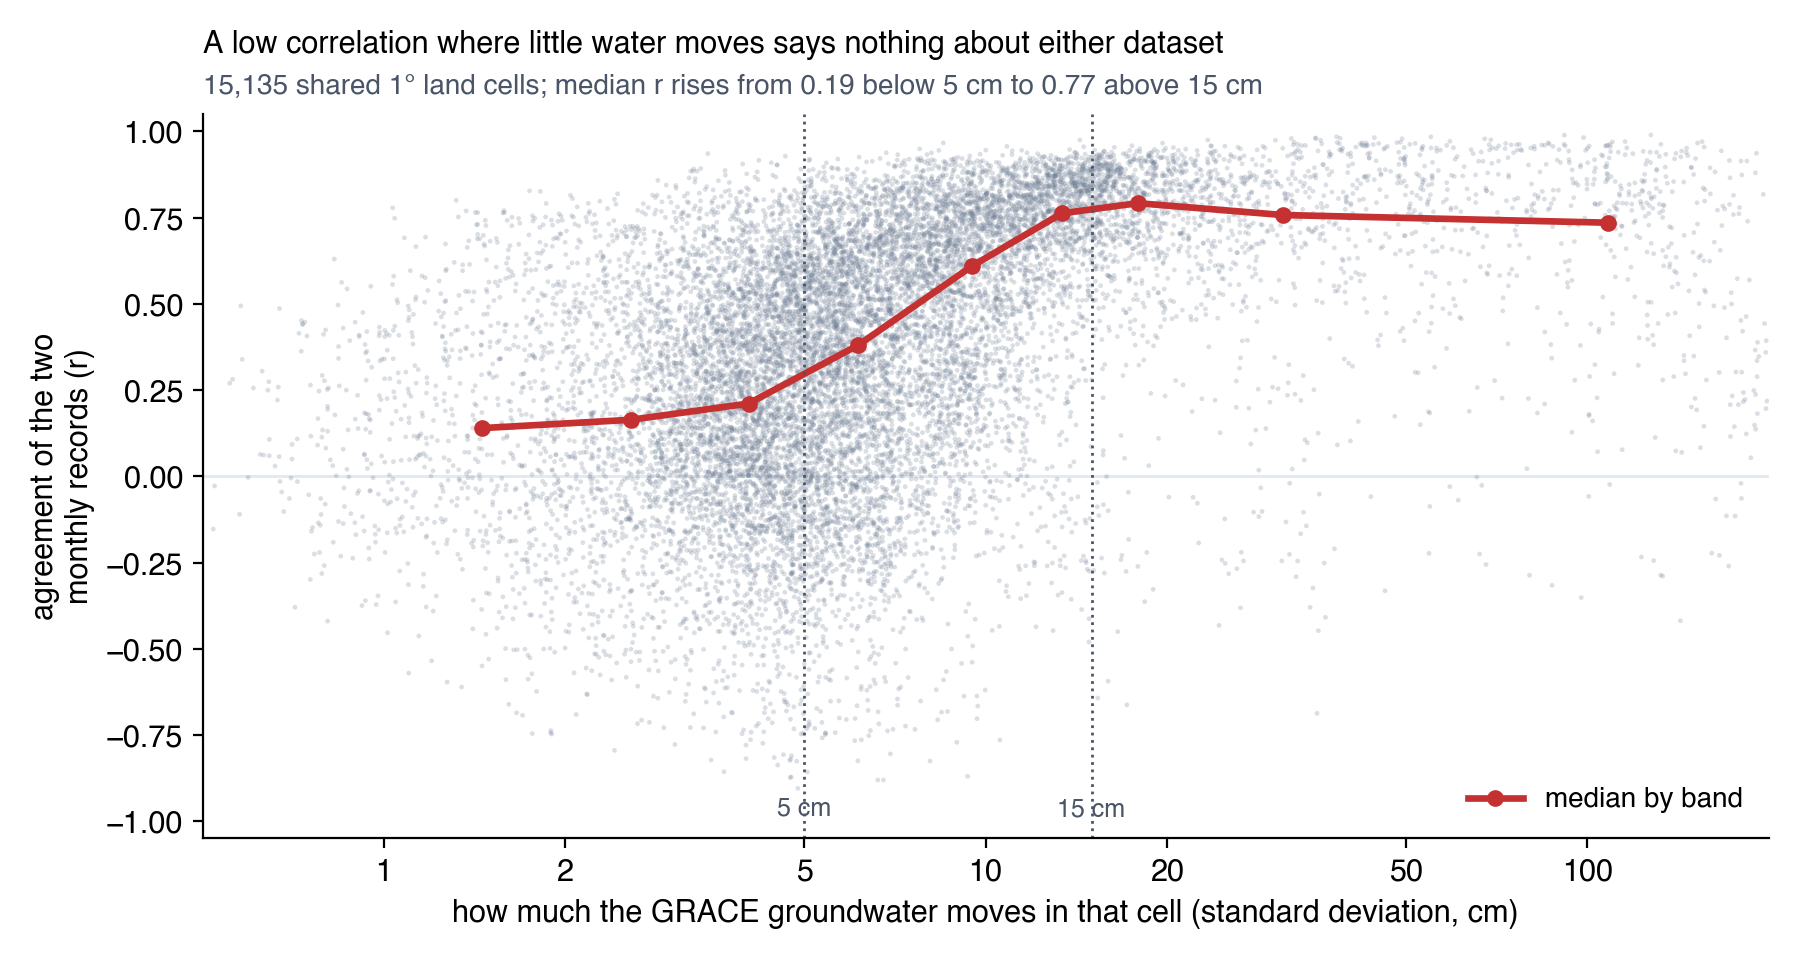
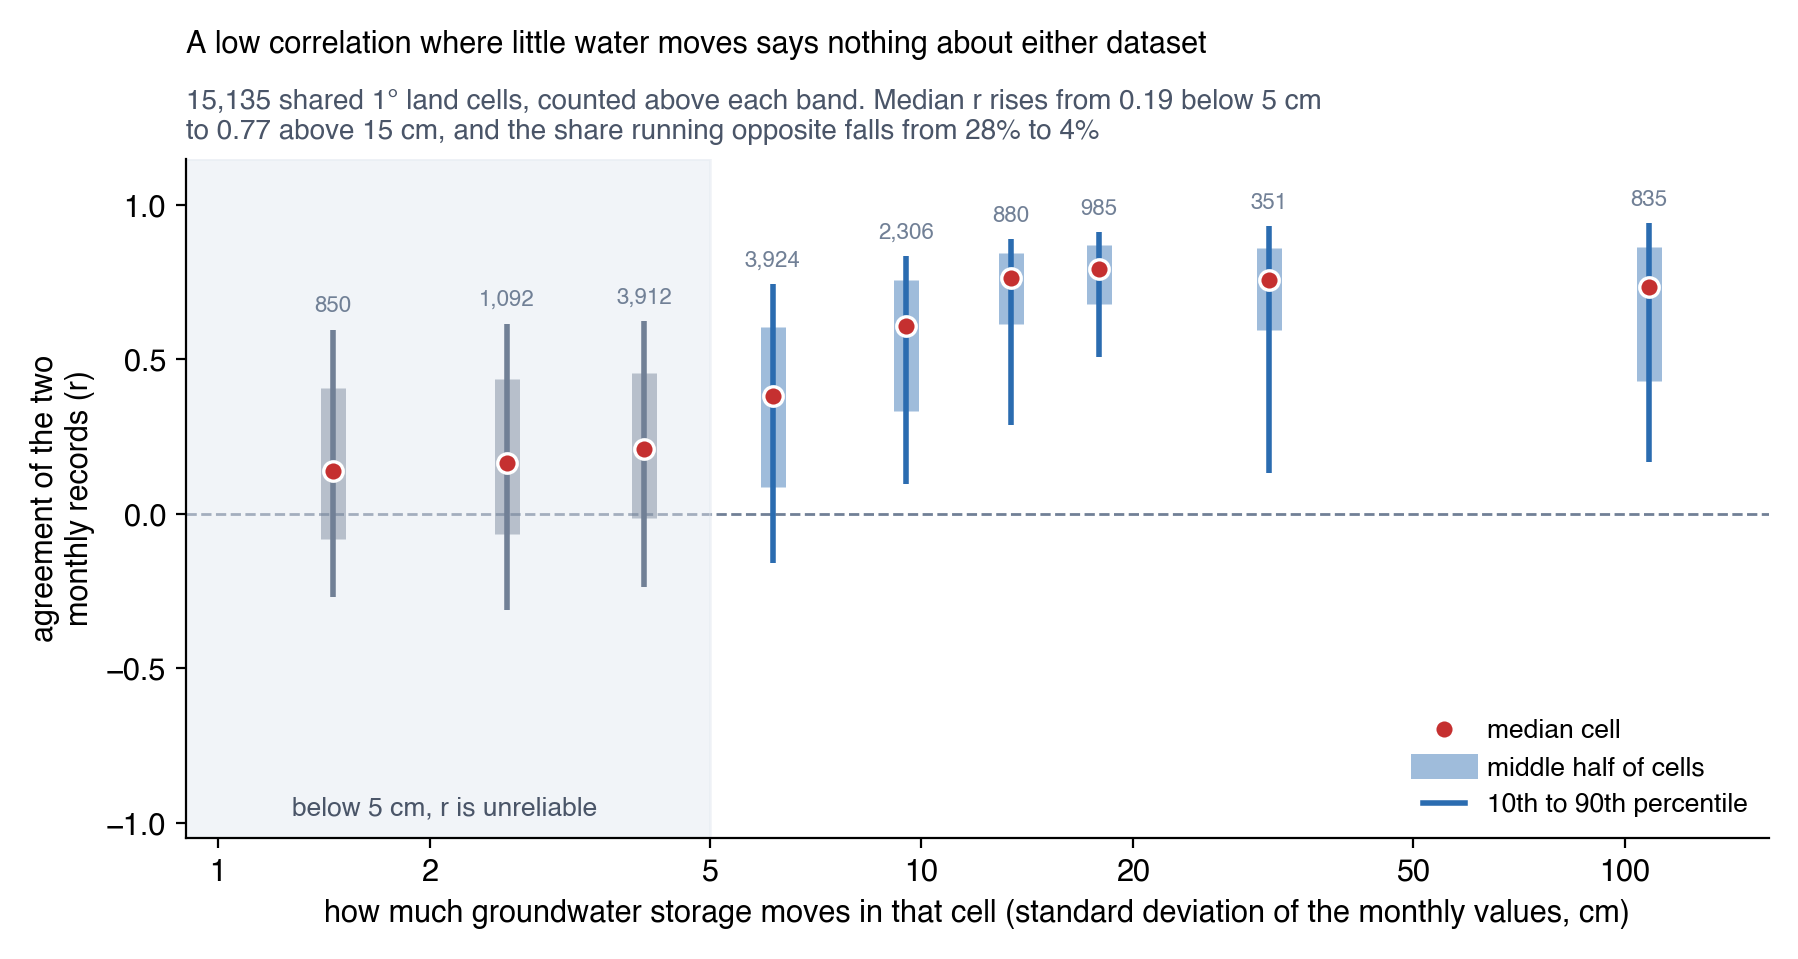
Redraw the signal-size figure so it can be read
Fifteen thousand scattered points read as one undifferentiated cloud. The
figure's two claims — that the median correlation climbs with the size of the
signal, and that below about 5 cm it can come out anywhere — were both
invisible in it, and the second one is the one that matters.

Each of the nine bands is now its own distribution: median, middle half, 10th
to 90th percentile, with the cell count above it and the band below 5 cm
shaded. The middle half straddling zero in the first three bands and sitting
between 0.6 and 0.85 in the last four is the whole argument, in one glance.

The page gains a sentence saying what the marks mean, and the share of cells
running opposite, 28% below 5 cm against 4% above 15 cm, replaces a spread
statistic that said the same thing less plainly. The x-axis said "how much the
GRACE groundwater moves", which named the dataset rather than the quantity.

Claude-Session: https://claude.ai/code/session_01Wxw5z6EJHSrer8Y72dcUYt

diff --git a/tools/grace-figures/compare_examples.py b/tools/grace-figures/compare_examples.py
@@ -290,39 +290,73 @@ def phase_mechanism():
 
 
 def signal_size():
-    """Correlation against how much water is actually moving, cell by cell."""
+    """What a correlation is worth, against how much water is moving.
+
+    The first version of this scattered all 15,135 cells, which read as one
+    undifferentiated cloud and hid both halves of the point. Each band is drawn
+    here as a distribution instead: the dot is the median, the thick bar the
+    middle half of the cells, the thin bar the 10th to 90th percentile. The
+    median rising is one message and the spread collapsing is the other — where
+    little water moves a correlation can come out anywhere between −1 and +1,
+    so a low one there is not evidence of anything.
+    """
     cells = pd.read_csv(DATA / "catalog_cells.csv")
     fig, ax = plt.subplots(figsize=(9, 4.8))
-    ax.axhline(0, color=C["lightgray"], lw=1, zorder=0)
-    ax.scatter(cells["sd_grace"], cells["r"], s=3, color=C["gray"], alpha=0.25,
-               edgecolors="none")
+    ax.axhline(0, color=C["gray"], lw=1, ls="--", zorder=0)
+
     edges = np.array([0, 2, 3, 5, 8, 12, 15, 25, 40, 1e9])
-    xs, ys = [], []
     for lo, hi in zip(edges[:-1], edges[1:]):
         k = (cells["sd_grace"] >= lo) & (cells["sd_grace"] < hi)
-        if k.sum() > 30:
-            xs.append(float(np.median(cells["sd_grace"][k])))
-            ys.append(float(np.median(cells["r"][k])))
-    ax.plot(xs, ys, color=C["red"], lw=2.4, marker="o", ms=5, label="median by band")
-    for x, lab in ((5, "5 cm"), (15, "15 cm")):
-        ax.axvline(x, color=C["darkgray"], lw=1, ls=":")
-        ax.text(x, -1.0, lab, fontsize=9, color=C["darkgray"], ha="center", va="bottom")
+        if k.sum() < 30:
+            continue
+        r = cells["r"][k]
+        x = float(np.median(cells["sd_grace"][k]))
+        p10, p25, p50, p75, p90 = np.percentile(r, [10, 25, 50, 75, 90])
+        # Below the 5 cm line the number is not worth reading, so the bands
+        # there are drawn in the muted colour the caption calls unreliable.
+        col = C["gray"] if x < 5 else C["blue"]
+        ax.plot([x, x], [p10, p90], color=col, lw=2, solid_capstyle="butt", zorder=2)
+        ax.plot([x, x], [p25, p75], color=col, lw=9, solid_capstyle="butt",
+                alpha=0.45, zorder=2)
+        ax.plot([x], [p50], marker="o", ms=7, color=C["red"], zorder=3,
+                markeredgecolor="white", markeredgewidth=1.2)
+        ax.text(x, p90 + 0.04, f"{int(k.sum()):,}", fontsize=8, color=C["gray"],
+                ha="center", va="bottom")
+
+    ax.axvspan(0.5, 5, color=C["lightgray"], alpha=0.45, zorder=0)
+    ax.text(2.1, -0.99, "below 5 cm, r is unreliable",
+            fontsize=9.5, color=C["darkgray"], ha="center", va="bottom")
+
     ax.set_xscale("log")
-    ax.set_xlim(0.5, 200)
+    ax.set_xlim(0.9, 160)
     ax.set_xticks([1, 2, 5, 10, 20, 50, 100])
     ax.set_xticklabels(["1", "2", "5", "10", "20", "50", "100"])
     ax.minorticks_off()
-    ax.set_ylim(-1.05, 1.05)
-    ax.set_xlabel("how much the GRACE groundwater moves in that cell "
-                  "(standard deviation, cm)")
+    ax.set_ylim(-1.05, 1.15)
+    ax.set_yticks([-1, -0.5, 0, 0.5, 1])
+    ax.set_xlabel("how much groundwater storage moves in that cell "
+                  "(standard deviation of the monthly values, cm)")
     ax.set_ylabel("agreement of the two\nmonthly records (r)")
     ax.set_title("A low correlation where little water moves says nothing about either dataset",
-                 fontsize=11, pad=22, loc="left")
+                 fontsize=11, pad=38, loc="left")
     ax.spines[["top", "right"]].set_visible(False)
-    ax.legend(frameon=False, fontsize=10, loc="lower right")
-    note(ax, f"{len(cells):,} shared 1° land cells; median r rises from "
-             f"{np.median(cells['r'][cells['sd_grace'] < 5]):.2f} below 5 cm to "
-             f"{np.median(cells['r'][cells['sd_grace'] > 15]):.2f} above 15 cm")
+
+    # A legend built from the drawing, so it explains the marks rather than the
+    # series: three plain handles beat a sentence under the axes.
+    from matplotlib.lines import Line2D
+    ax.legend(handles=[
+        Line2D([], [], marker="o", ms=7, color=C["red"], ls="none",
+               markeredgecolor="white", markeredgewidth=1.2, label="median cell"),
+        Line2D([], [], color=C["blue"], lw=9, alpha=0.45, label="middle half of cells"),
+        Line2D([], [], color=C["blue"], lw=2, label="10th to 90th percentile"),
+    ], frameon=False, fontsize=9.5, loc="lower right", ncol=1,
+        handlelength=1.6, borderaxespad=0.4, labelspacing=0.5)
+
+    lo = cells["r"][cells["sd_grace"] < 5]
+    hi = cells["r"][cells["sd_grace"] > 15]
+    note(ax, f"{len(cells):,} shared 1° land cells, counted above each band. Median r rises from "
+             f"{np.median(lo):.2f} below 5 cm\nto {np.median(hi):.2f} above 15 cm, and the share "
+             f"running opposite falls from {(lo < 0).mean():.0%} to {(hi < 0).mean():.0%}")
     fig.tight_layout()
     save(fig, "compare-signal-size")
 

diff --git a/docs/grace/compare/examples.fr.md b/docs/grace/compare/examples.fr.md
@@ -119,7 +119,12 @@ la soustraction suppose.
 Tout désaccord n’est pas un problème de jeu de données. Deux petits signaux qui ne parviennent pas à s’aligner produisent une corrélation faible,
 qu’il y ait ou non quelque chose qui cloche :
 
-![Corrélation contre l’ampleur des mouvements de l’eau souterraine GRACE, sur 15 135 cellules terrestres communes, la médiane passant de 0,14 à 0,79](../../static/images/grace/compare-signal-size.png)
+![Concordance entre les deux jeux de données dans neuf bandes de taille de signal : en dessous de 5 cm la moitié centrale des mailles traverse zéro, au-dessus de 15 cm elle se resserre autour de 0,8](../../static/images/grace/compare-signal-size.png)
+
+Chaque bande de la figure est la distribution de la corrélation sur les mailles qu’elle contient : le point est la médiane, la barre épaisse la
+moitié centrale, la barre fine les 10e à 90e centiles. Que les médianes montent est la moitié du propos, que les barres se resserrent en est
+l’autre. En dessous de 5 cm, la moitié centrale des mailles traverse zéro et 28 % d’entre elles ont les deux enregistrements en opposition ;
+au-dessus de 15 cm, la moitié centrale se tient entre 0,6 et 0,85 et 4 % seulement sont en opposition.
 
 | Ampleur des mouvements de l’eau souterraine GRACE | Corrélation médiane | Écart médian entre les deux | Cellules |
 |:---|:---:|:---:|:---:|
@@ -127,8 +132,8 @@ qu’il y ait ou non quelque chose qui cloche :
 | 5–15 cm | 0,51 | 8,32 cm | 7110 |
 | plus de 15 cm | 0,77 | 27,32 cm | 2171 |
 
-La corrélation médiane monte avec la taille du signal puis s’aplatit au-delà d’environ 15 cm, où les deux jeux de données se stabilisent autour de
-0,77 quelle que soit la quantité d’eau supplémentaire en mouvement. Les aquifères que l’on analyserait se situent dans cette partie plate. Il faut
+La montée s’aplatit au-delà d’environ 15 cm, où les deux jeux de données se stabilisent autour de 0,77 quelle que soit la quantité d’eau
+supplémentaire en mouvement. Les aquifères que l’on analyserait se situent dans cette partie plate. Il faut
 lire une corrélation en regard de la quantité d’eau en jeu, jamais seule.
 
 ## Des écarts qui ne sont pas de l’eau souterraine { #differences-that-are-not-groundwater }

diff --git a/docs/grace/compare/examples.es.md b/docs/grace/compare/examples.es.md
@@ -119,7 +119,12 @@ formulan la versión general de este argumento: que los compartimentos de un mod
 No todo desacuerdo es un problema del conjunto de datos. Dos señales pequeñas que no llegan a alinearse producen una correlación baja haya o no
 algo mal:
 
-![Correlación frente a cuánto se mueve el agua subterránea de GRACE, en 15 135 celdas de tierra compartidas, con la mediana subiendo de 0,14 a 0,79](../../static/images/grace/compare-signal-size.png)
+![Concordancia entre los dos conjuntos en nueve bandas de tamaño de señal: por debajo de 5 cm la mitad central de las celdas cruza el cero, por encima de 15 cm se agrupa en torno a 0,8](../../static/images/grace/compare-signal-size.png)
+
+Cada banda de la figura es la distribución de la correlación sobre las celdas que contiene: el punto es la mediana, la barra gruesa la mitad
+central y la barra fina el percentil 10 al 90. Que las medianas suban es la mitad del asunto y que las barras se estrechen es la otra. Por debajo
+de 5 cm la mitad central de las celdas cruza el cero y el 28% tiene los dos registros yendo opuestos; por encima de 15 cm la mitad central queda
+entre 0,6 y 0,85 y solo el 4% va opuesto.
 
 | Cuánto se mueve el agua subterránea de GRACE | Correlación mediana | Diferencia mediana entre ambos | Celdas |
 |:---|:---:|:---:|:---:|
@@ -127,8 +132,7 @@ algo mal:
 | 5–15 cm | 0,51 | 8,32 cm | 7110 |
 | más de 15 cm | 0,77 | 27,32 cm | 2171 |
 
-La correlación mediana sube con el tamaño de la señal y luego se aplana por encima de unos 15 cm, donde los dos conjuntos se asientan alrededor
-de 0,77 por mucha más agua que se mueva. Los acuíferos que cualquiera analizaría están en esa parte plana. Léase una correlación junto con la
+La subida se aplana por encima de unos 15 cm, donde los dos conjuntos se asientan alrededor de 0,77 por mucha más agua que se mueva. Los acuíferos que cualquiera analizaría están en esa parte plana. Léase una correlación junto con la
 cantidad de agua en juego, nunca sola.
 
 ## Diferencias que no son agua subterránea { #differences-that-are-not-groundwater }

diff --git a/docs/grace/compare/examples.en.md b/docs/grace/compare/examples.en.md
@@ -117,7 +117,12 @@ form of this argument — that a model's compartments are not the physically sep
 Not every disagreement is a problem with a dataset. Two small signals that fail to line up produce a low correlation whether or not anything is
 wrong:
 
-![Correlation against how much the GRACE groundwater moves, over 15,135 shared land cells, with the median rising from 0.14 to 0.79](../../static/images/grace/compare-signal-size.png)
+![Agreement between the two datasets in nine bands of signal size: below 5 cm the middle half of cells straddles zero, above 15 cm it sits tight around 0.8](../../static/images/grace/compare-signal-size.png)
+
+Each band in the figure is the distribution of correlation over the cells in it: the dot is the median, the thick bar the middle half, the thin
+bar the 10th to 90th percentile. The medians climbing is one half of the point and the bars shrinking is the other. Below 5 cm the middle half
+of cells straddles zero and 28% of them have the two records running opposite; above 15 cm the middle half sits between 0.6 and 0.85 and 4% run
+opposite.
 
 | How much GRACE groundwater moves | Median correlation | Median gap between the two | Cells |
 |:---|:---:|:---:|:---:|
@@ -125,9 +130,8 @@ wrong:
 | 5–15 cm | 0.51 | 8.32 cm | 7,110 |
 | over 15 cm | 0.77 | 27.32 cm | 2,171 |
 
-The median correlation climbs with the size of the signal and then flattens above about 15 cm, where the two datasets settle at around 0.77
-however much more water moves. The aquifers anyone would analyse sit in that flat part. Read a correlation alongside the amount of water in play,
-never on its own.
+The climb flattens above about 15 cm, where the two datasets settle at around 0.77 however much more water moves. The aquifers anyone would
+analyse sit in that flat part. Read a correlation alongside the amount of water in play, never on its own.
 
 ## Differences that are not groundwater
 
